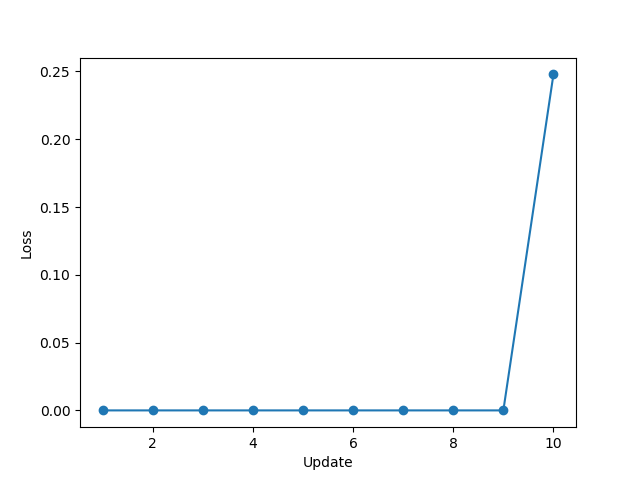
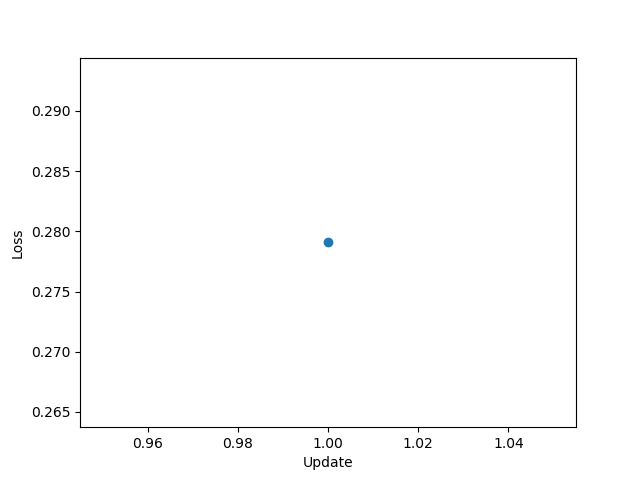
ready to run

diff --git a/QuantumEdgeNetwork_pennylane.py b/QuantumEdgeNetwork_pennylane.py
@@ -40,27 +40,6 @@ def TTN_edge_forward(edge,theta_learn):
 		
 	return(qml.expval(qml.PauliZ(4)))
 
-def TTN_edge_back(input_,theta_learn):
-	# This function calculates the gradients for all learning 
-	# variables numerically and updates them accordingly.
-	# TODO: need to choose epsilon properly
-	epsilon = np.pi/2 # to take derivative
-	gradient = np.zeros(len(theta_learn))
-	update = np.zeros(len(theta_learn))
-	for i in range(len(theta_learn)):
-		## Compute f(x+epsilon)
-		theta_learn[i] = (theta_learn[i] + epsilon)%(2*np.pi)
-		## Evaluate
-		out_plus = TTN_edge_forward(input_,theta_learn)
-		## Compute f(x-epsilon)
-		theta_learn[i] = (theta_learn[i] - 2*epsilon)%(2*np.pi)
-		## Evaluate
-		out_minus = TTN_edge_forward(input_,theta_learn)
-		# Compute the gradient numerically
-		gradient[i] = (out_plus-out_minus)/2
-		## Bring theta to its original value
-		theta_learn[i] = (theta_learn[i] + epsilon)%(2*np.pi)
-	return gradient
 def map2angle(B):
 	# Maps input features to 0-2PI
 	r_min     = 0.
@@ -76,72 +55,21 @@ def map2angle(B):
 	B[:,4] =  (B[:,4]-phi_min)/(phi_max-phi_min) 
 	B[:,5] =  (B[:,5]-z_min)/(z_max-z_min)
 	return B
-def get_loss_and_gradient(edge_array,y,theta_learn,class_weight,loss_array,gradient_array,update_array):
-	local_loss     = 0.
-	local_gradient = np.zeros(len(theta_learn))
-	local_update   = np.zeros(len(theta_learn))
-	#print('Edge Array Size: ' + str(len(edge_array)))
-	for i in range(len(edge_array)):
-		error          = (TTN_edge_forward(edge_array[i],theta_learn)+1)/2 - y[i]
-		loss           = (error**2)*class_weight[int(y[i])]
-		local_loss     += loss
-		gradient       = TTN_edge_back(edge_array[i],theta_learn)
-		local_gradient += gradient
-		local_update   += 2*error*gradient
-		#print('Item: ' + str(i) + ' Loss: ' + str(loss))
-	loss_array.append(local_loss)
-	gradient_array.append(local_gradient)
-	update_array.append(local_update)
-def train(B,theta_learn,y):
-	jobs         = []
-	n_threads    = 8
+def cost_fn(edge_array,y,theta_learn):
 	n_edges      = len(y)
-	n_feed       = n_edges//n_threads
 	n_class      = [n_edges - sum(y), sum(y)]
 	class_weight = [n_edges/(n_class[0]*2), n_edges/(n_class[1]*2)]
-	# RESET variables
-	manager        = multiprocessing.Manager()
-	loss_array     = manager.list()
-	gradient_array = manager.list()
-	update_array   = manager.list()
-	# Learning variables
-	lr = 1
-	# RUN Multithread training
-	#print('Total edge: ' + str(n_edges))
-	for thread in range(n_threads):
-		start = thread*n_feed
-		end   = (thread+1)*n_feed
-		if thread==(n_threads-1):   
-			p = multiprocessing.Process(target=get_loss_and_gradient,args=(B[start:,:],y[start:],theta_learn,class_weight,loss_array,gradient_array,update_array,))
-		else:
-			p = multiprocessing.Process(target=get_loss_and_gradient,args=(B[start:end,:],y[start:end],theta_learn,class_weight,loss_array,gradient_array,update_array,))   
-		jobs.append(p)
-		p.start()
-		#print('Thread: ' + str(thread) + ' started')
+	loss = 0.
+	for i in range(n_edges):
+		loss +=(((TTN_edge_forward(edge_array[i],theta_learn)+1)/2 - y[i])**2/n_edges)*class_weight[int(y[i])]
+	return loss
 
-	# WAIT for jobs to finish
-	for proc in jobs: 
-		proc.join()
-		#print('Thread ended')
-			
-	total_loss     = sum(loss_array)
-	total_gradient = sum(gradient_array)
-	total_update   = sum(update_array)
-	## UPDATE WEIGHTS
-	average_loss     = total_loss/n_edges
-	average_gradient = total_gradient/n_edges
-	average_update   = total_update/n_edges
-	theta_learn       = (theta_learn - lr*average_update)%(2*np.pi)
-	print('Loss: '      + str(average_loss)     )
-	print('Gradients: ' + str(average_gradient) )
-	print('Updates: '   + str(average_update)   )
-	print('Updated Angles : '   + str(theta_learn)      )
-	
-	with open('log_gradients.csv', 'a') as f:
-			for item in average_update:
-				f.write('%.4f, ' % item)
-			f.write('\n')	
-	return theta_learn,average_loss
+def grad_fn(edge_array,theta_learn):
+	grad = np.zeros(len(theta_learn))
+	for i in range(len(edge_array)):
+		dcircuit = qml.grad(TTN_edge_forward, argnum=1)
+		grad += dcircuit(edge_array[i],theta_learn)/len(edge_array)
+	return grad	
 ############################################################################################
 ##### MAIN ######
 #client = Client(processes=False, threads_per_worker=1, n_workers=8, memory_limit='2GB')
@@ -154,15 +82,18 @@ if __name__ == '__main__':
 	#input_dir = '/Users/cenk/Repos/HEPTrkX-quantum/data/hitgraphs_big'
 	input_dir = 'data\hitgraphs_big'
 	n_files = 16*100
+	n_epoch = 10
 	data = HitGraphDataset(input_dir, n_files)
+	loss_log = np.zeros(n_files*n_epoch)
+	theta_log = np.zeros((n_files*n_epoch,11))
 	
-	theta_log = np.zeros((n_files,11))
 	#accuracy[0] = test_accuracy(theta_learn)
 	print('Training is starting!')
-	for epoch in range(1): 
+	opt = qml.GradientDescentOptimizer(stepsize=10)
+
+	for epoch in range(n_epoch): 
 		for n_file in range(n_files):
 			t0 = time.time()
-			loss_log = np.zeros(n_files)
 			X,Ro,Ri,y = data[n_file]
 			if n_file%2==0: # Section Correction: even files have negative z 
 				X[:,2] = -X[:,2]
@@ -171,35 +102,29 @@ if __name__ == '__main__':
 			B     = np.concatenate((bo,bi),axis=1)
 			B     = map2angle(B)
 			
-			# Log learning variables
-			with open('log_learning.csv', 'a') as f:
-				for item in theta_learn:
-					f.write('%.4f,' % item)
-				f.write('\n')
-
 			# Update learning variables
-			theta_learn,loss_log[n_file] = train(B,theta_learn,y)
-			theta_log[n_file,:] = theta_learn   
-
-			# Log loss and duration
+			theta_learn = opt.step(lambda v: cost_fn(B,y,v),theta_learn,lambda z: grad_fn(B,theta_learn))
+			theta_log[n_file*epoch] = theta_learn
+			loss_log[n_file*epoch] = cost_fn(B,y,theta_learn)
+			
 			t = time.time() - t0
 			with open('log_loss.csv', 'a') as f:
 				f.write('%d, %.4f, %.2d, %.2d\n' % (n_file+1, loss_log[n_file], t / 60, t % 60))
 
+
+
 			# Plot the result every update  
 			plt.clf()   
-			x = [(i+1) for i  in range(n_file+1)]
-			plt.plot(x,loss_log[:n_file+1],marker='o')
+			x = [(i+1) for i  in range(n_file*epoch+1)]
+			plt.plot(x,loss_log[:n_file*epoch+1],marker='o')
 			plt.xlabel('Update')
 			plt.ylabel('Loss')
 			plt.savefig('png\statistics_loss.png')
 
 			plt.clf()
 			for i in range(11):
-				plt.plot(x,theta_log[:n_file+1,i],marker='o',label=r'$\theta_{'+str(i)+'}$')
+				plt.plot(x,theta_log[:n_file*epoch+1,i],marker='o',label=r'$\theta_{'+str(i)+'}$')
 			plt.xlabel('Update')
 			plt.ylabel(r'Angle (0 - 2$\pi$)')
 			plt.savefig('png\statistics_angle.png')
-
-		average_epoch_loss = loss_log.mean()
-
+	
